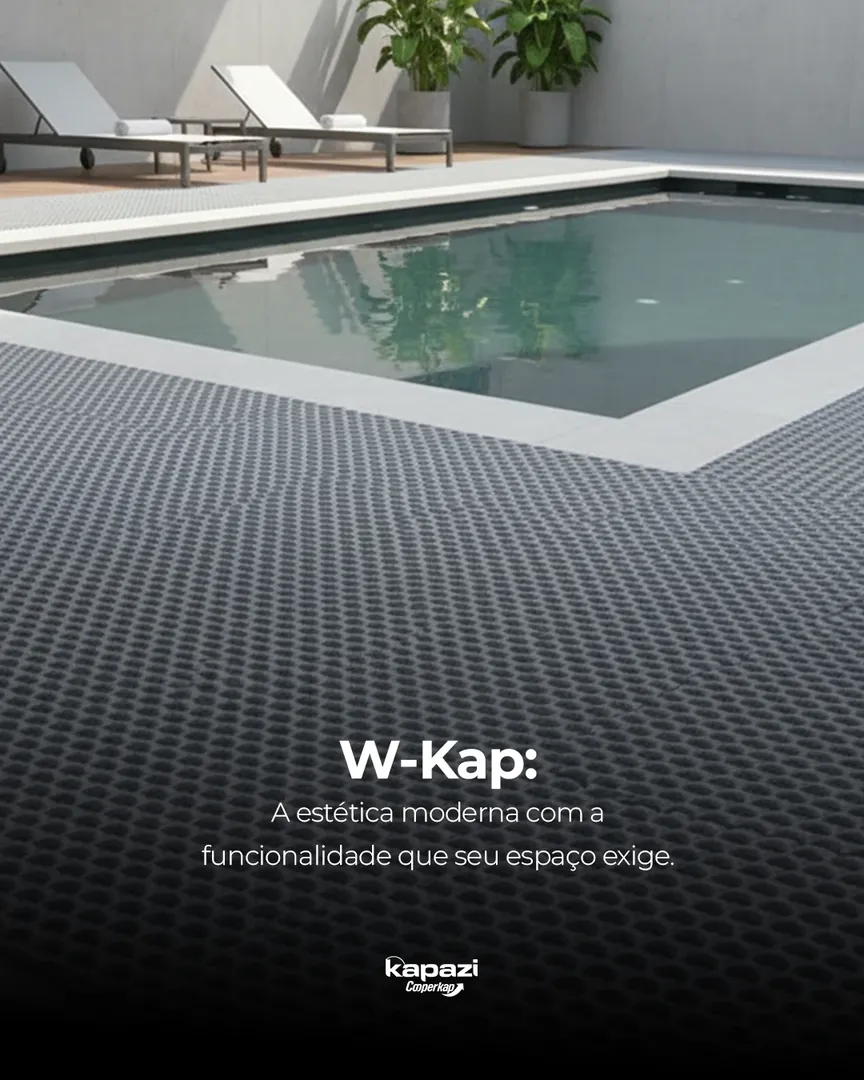
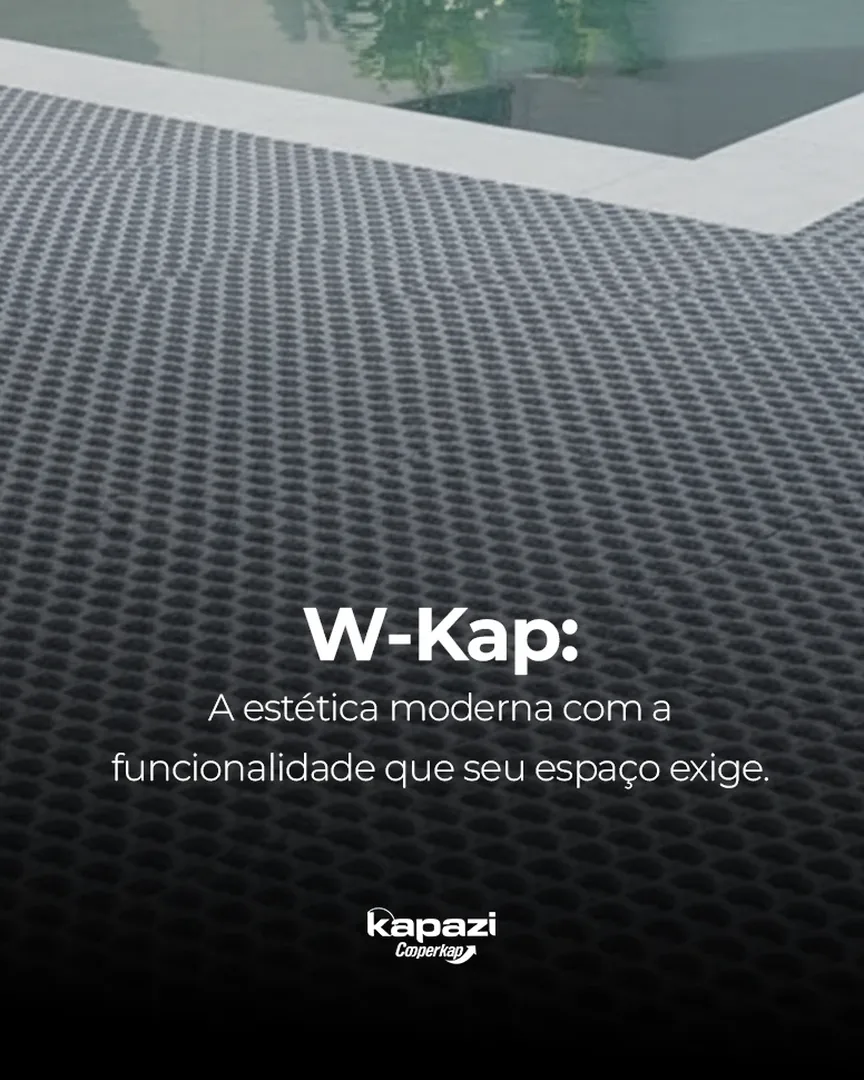
Reframe W-Kap pool photos so the floor, not the pool, fills the frame
Claude-Session: https://claude.ai/code/session_011TDvxon7pdwk7pkwbH4ZDf

diff --git a/public/piizu/index.html b/public/piizu/index.html
@@ -732,8 +732,8 @@ function piizuAds(label, extra){
         <div class="ph gal-it" data-setor="tapete"><img src="assets/img/galeria/tapete-loja-ferramentas.webp" alt="Tapete personalizado com as marcas atendidas por uma loja de ferramentas" width="864" height="1080" loading="lazy"></div>
         <div class="ph gal-it" data-setor="tapete"><img src="assets/img/galeria/capacho-elevador-unique.webp" alt="Capacho personalizado com a marca Unique Residence no elevador do condomínio" width="864" height="1080" loading="lazy"></div>
         <div class="ph gal-it" data-setor="tapete"><img src="assets/img/galeria/waterkap-entrada.webp" alt="Capacho Waterkap de alta absorção de água na entrada de um prédio" width="864" height="1080" loading="lazy"></div>
-        <div class="ph gal-it" data-setor="piso-piscina"><img src="assets/img/galeria/wkap-piscina.webp" alt="Piso W-Kap antiderrapante na borda de piscina" width="864" height="1080" loading="lazy"></div>
-        <div class="ph gal-it" data-setor="piso-piscina"><img src="assets/img/galeria/wkap-piscina-noite.webp" alt="Piso W-Kap antiderrapante e antifungo ao redor de piscina à noite" width="864" height="1080" loading="lazy"></div>
+        <div class="ph gal-it" data-setor="piso-piscina"><img src="assets/img/galeria/wkap-piscina.webp" alt="Piso W-Kap antiderrapante em volta da piscina, com a textura em destaque" width="864" height="1080" loading="lazy"></div>
+        <div class="ph gal-it" data-setor="piso-piscina"><img src="assets/img/galeria/wkap-piscina-noite.webp" alt="Piso W-Kap antiderrapante e antifungo na borda da piscina à noite" width="864" height="1080" loading="lazy"></div>
         <div class="ph gal-it" data-setor="piso-quadra"><img src="assets/img/galeria/piso-quadra-esportiva.webp" alt="Piso modular em quadra poliesportiva de condomínio" width="864" height="1080" loading="lazy"></div>
         <div class="ph gal-it" data-setor="grama"><img src="assets/img/galeria/grama-sintetica-condominio.webp" alt="Grama sintética em jardim de condomínio" width="864" height="1080" loading="lazy"></div>
         <div class="ph gal-it" data-setor="grama"><img src="assets/img/galeria/grama-sintetica-pet.webp" alt="Grama sintética em área com cachorro" width="864" height="1080" loading="lazy"></div>
